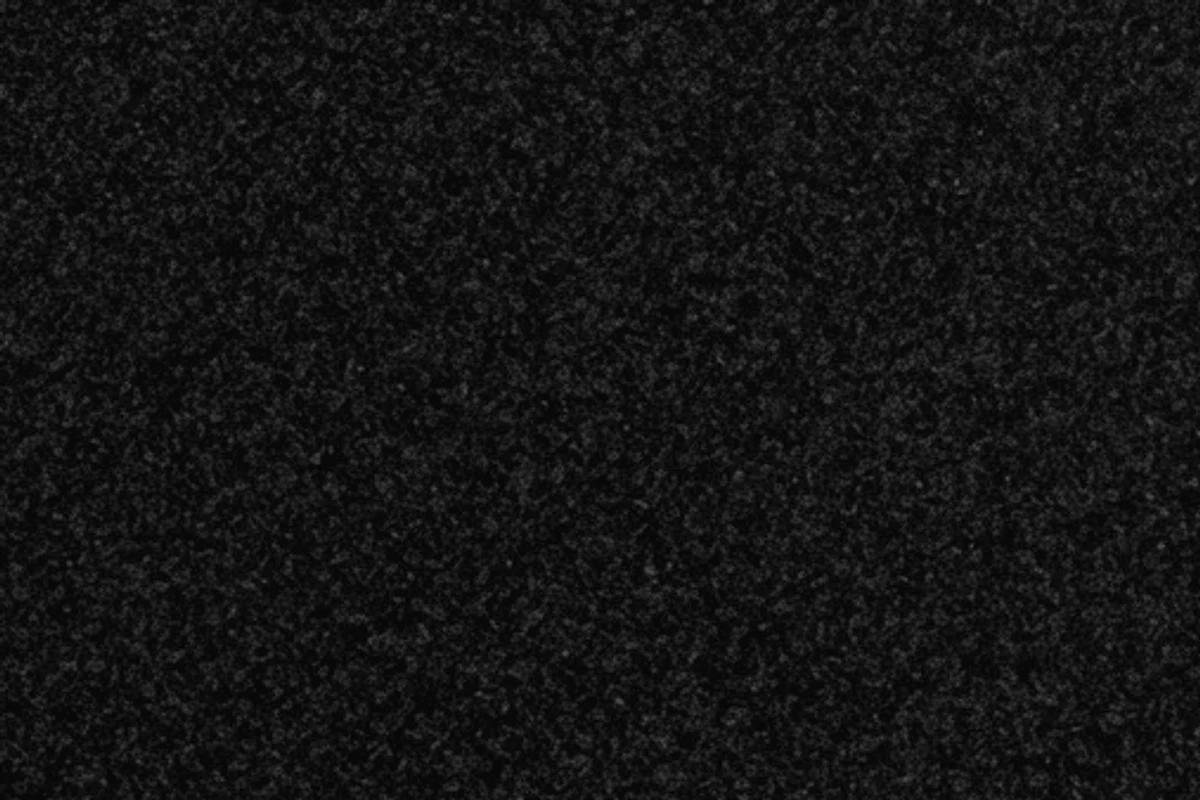
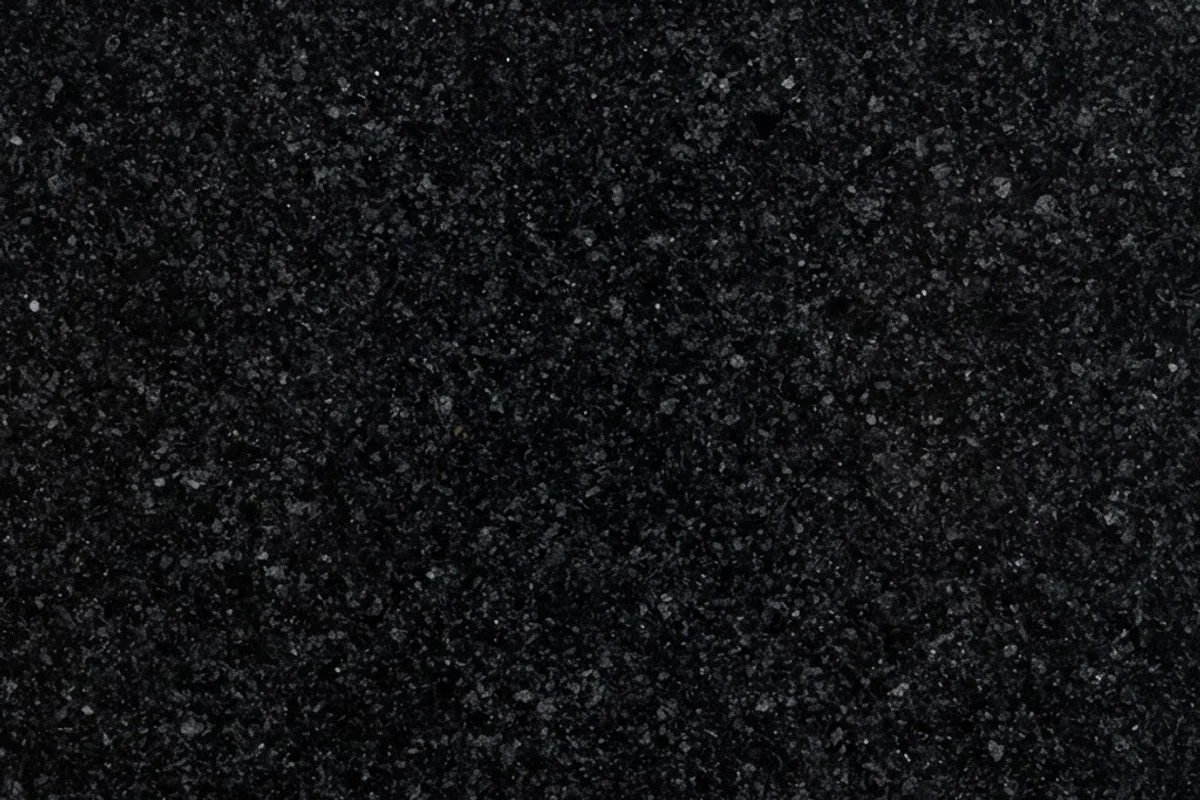
feat(stone): фото партії 3 — усі 14 нових українських колекцій з повним комплектом
Шість сцен, яких бракувало (макро Рахни-Полівського, застосування для Silver
Grey, Fantasy Azure, Луковецького, Овруцького, Теребовлянського), і два
перероблені сляби (Fantasy Azure, Rosa Raveno). Перекодовано скриптом
import-stone-photos.mjs у 1200×800 WebP. Останні 5 колекцій перенесені з
ukrainianPending в ukrainian; список очікування порожній.

Після деплою відкрити їх у базі: apply-ukrainian-first.ts --unhide.

Changed region(s): [[0.0, 0.0, 1.0, 1.0], [0.0925, 0.375, 0.1233, 0.4062]]

diff --git a/data/stone/seed/collections.ts b/data/stone/seed/collections.ts
@@ -367,6 +367,11 @@ const ukrainian: [string, string, string, string, string, string[]][] = [
   ['voinivske', 'Войнівський граніт (Rosso Santiago)', 'Граніт', 'Кіровоградська область, Україна', 'червоний', ['стільниці', 'сходи', 'фасади', 'бруківка']],
   ['rakhni-polivsky', 'Рахни-Полівський граніт (Rakhni-Polivsky)', 'Граніт', 'Вінницька область, Україна', 'чорний', ['стільниці', 'каміни', 'фасади']],
   ['galactic-blue', 'Очеретянський лабрадорит (Galactic Blue)', 'Лабрадорит', 'Житомирська область, Україна', 'чорний із синім переливом', ['стільниці', 'каміни', 'фасади']],
+  ['silver-grey', 'Ковалівський лабрадорит (Silver Grey)', 'Лабрадорит', 'Житомирська область, Україна', 'сіро-чорний', ['стільниці', 'каміни', 'фасади']],
+  ['fantasy-azure', 'Слобідський лабрадорит (Fantasy Azure)', 'Лабрадорит', 'Житомирська область, Україна', 'чорно-синій', ['стільниці', 'каміни', 'фасади']],
+  ['lukovetskyi', 'Луковецький анортозит (Lukovetskiy)', 'Лабрадорит', 'Житомирська область, Україна', 'сіро-зелений', ['стільниці', 'сходи', 'фасади']],
+  ['ovrutskyi', 'Овруцький кварцит', 'Кварцит', 'Житомирська область, Україна', 'рожево-червоний', ['бруківка', 'фасади', 'сходи']],
+  ['terebovlianskyi', 'Теребовлянський пісковик', 'Пісковик', 'Тернопільська область, Україна', 'сіро-зелений', ['фасади', 'облицювання', 'бруківка']],
 ]
 const imported: [string, string, string, string, string, string[]][] = [
   [
@@ -800,18 +805,14 @@ const porcelain = [
 /**
  * Українські родовища, які конкуренти реально продають, а на сайті ще не було
  * (звірка з ринком, вересень 2026), плюс дві породи, яких нема в жодного
- * конкурента (14; 9 із них уже з фото перенесені в `ukrainian`). Решта
- * заведені в базу прихованими: фото за правилами
+ * конкурента (14; усі з фото перенесені в `ukrainian`). Нові камені без фото
+ * заводити сюди прихованими: фото за правилами
  * docs/stone-photo-brief.md ще не згенеровані (бриф —
  * docs/stone-photo-ukrainian-2026-09.md). Після появи файлів рядок переносять
  * в `ukrainian` і знімають «Приховано» в адмінці.
  */
 const ukrainianPending: [string, string, string, string, string, string[]][] = [
-  ['silver-grey', 'Ковалівський лабрадорит (Silver Grey)', 'Лабрадорит', 'Житомирська область, Україна', 'сіро-чорний', ['стільниці', 'каміни', 'фасади']],
-  ['fantasy-azure', 'Слобідський лабрадорит (Fantasy Azure)', 'Лабрадорит', 'Житомирська область, Україна', 'чорно-синій', ['стільниці', 'каміни', 'фасади']],
-  ['lukovetskyi', 'Луковецький анортозит (Lukovetskiy)', 'Лабрадорит', 'Житомирська область, Україна', 'сіро-зелений', ['стільниці', 'сходи', 'фасади']],
-  ['ovrutskyi', 'Овруцький кварцит', 'Кварцит', 'Житомирська область, Україна', 'рожево-червоний', ['бруківка', 'фасади', 'сходи']],
-  ['terebovlianskyi', 'Теребовлянський пісковик', 'Пісковик', 'Тернопільська область, Україна', 'сіро-зелений', ['фасади', 'облицювання', 'бруківка']],
+  // Порожньо: усі 14 колекцій вересня 2026 отримали фото й перенесені в `ukrainian`.
 ]
 
 /** Приховані колекції без фото: у базу йдуть з hidden = true, на сайт і в сід-fallback не потрапляють. */

diff --git a/docs/stone-photo-ukrainian-2026-09.md b/docs/stone-photo-ukrainian-2026-09.md
@@ -1,4 +1,6 @@
-# Завдання: фото 14 нових українських каменів, партія 3
+# Фото 14 нових українських каменів: завершено 18.09.2026
+
+Партія 3 прийнята 18.09.2026: усі 56 файлів у `public/`, 14 колекцій у сіді `ukrainian`. Нижче історія робіт.
 
 Стан на 17.09.2026 після партії 2: 50 із 56 файлів прийнято, обрізано й
 перекодовано в `public/` скриптом `scripts/import-stone-photos.mjs`
